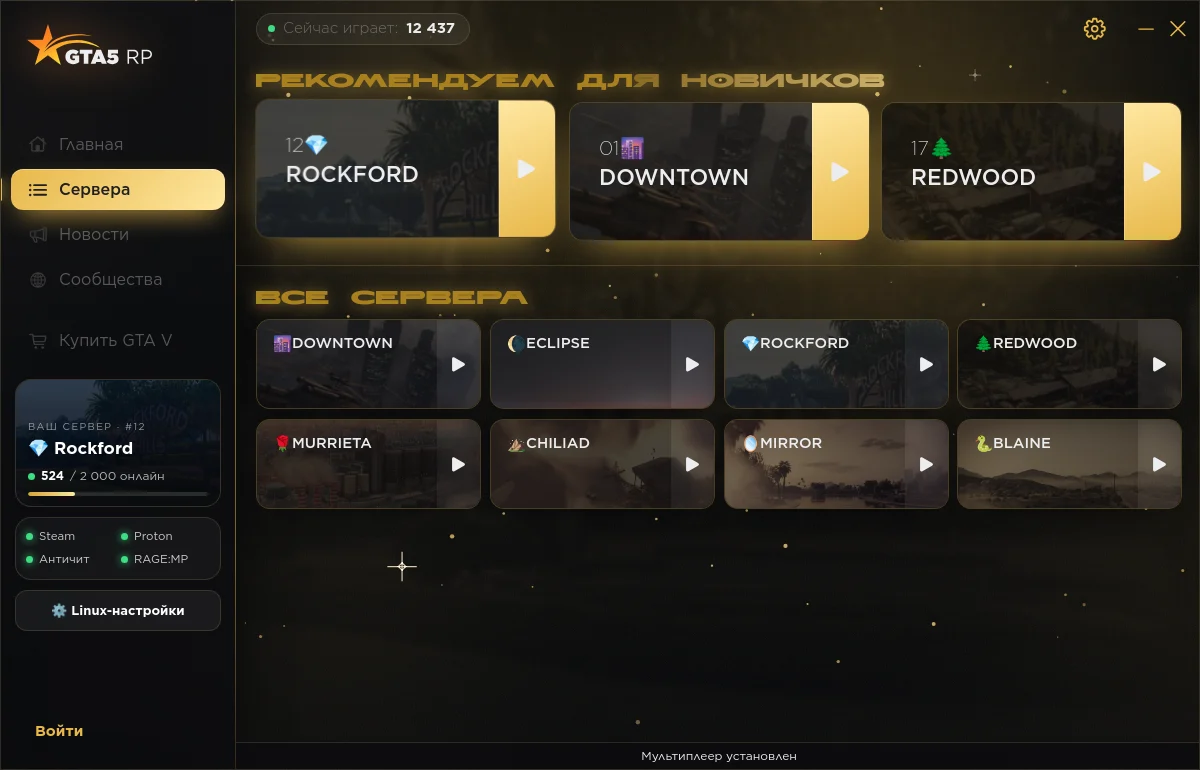
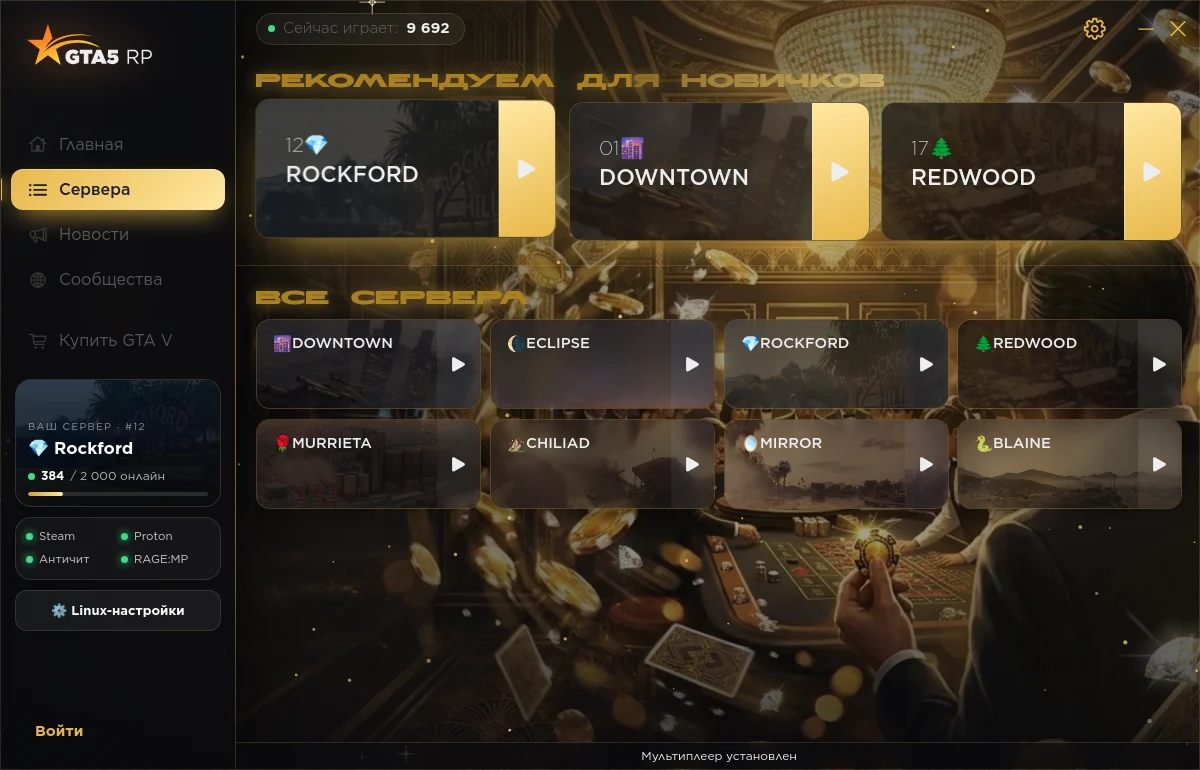
1.2.0: generated art for every theme (Google Flow), site hero/final art, theme thumbnails, mobile hero fix

diff --git a/docs/index.html b/docs/index.html
@@ -10,7 +10,7 @@
 <meta property="og:image" content="https://alinaz18.github.io/gta5rp-launcher-linux/shots/servers.webp">
 <meta name="theme-color" content="#08070b">
 <link rel="icon" href="icon.svg" type="image/svg+xml">
-<link rel="preload" as="image" href="img/la-highway.webp">
+<link rel="preload" as="image" href="img/hero-flow.webp">
 <link rel="preconnect" href="https://fonts.googleapis.com">
 <link rel="preconnect" href="https://fonts.gstatic.com" crossorigin>
 <link href="https://fonts.googleapis.com/css2?family=Inter:wght@400;500;600;700;800&family=Unbounded:wght@600;700;800&family=JetBrains+Mono:wght@500&display=swap" rel="stylesheet">
@@ -57,7 +57,7 @@ a { color: inherit; } img { display: block; max-width: 100%; }
 
 /* ---------------------------------------------------------------- hero */
 .hero { position: relative; min-height: 100vh; min-height: 100svh; display: flex; align-items: center; isolation: isolate; overflow: hidden; padding: 110px 0 70px; }
-.hero-bg { position: absolute; inset: 0; z-index: -2; background: url(img/la-highway.webp) center 42% / cover no-repeat;
+.hero-bg { position: absolute; inset: 0; z-index: -2; background: url(img/hero-flow.webp) center 55% / cover no-repeat;
   transform: scale(1.06); animation: kb 26s ease-in-out infinite alternate; will-change: transform; }
 @keyframes kb { to { transform: scale(1.14) translate3d(-1.2%, -.8%, 0); } }
 .hero-shade { position: absolute; inset: 0; z-index: -1;
@@ -67,6 +67,7 @@ a { color: inherit; } img { display: block; max-width: 100%; }
     radial-gradient(60% 50% at 75% 60%, rgba(255,122,47,.18), transparent 70%); }
 .hero .wrap { display: grid; grid-template-columns: 1.1fr .9fr; gap: 40px; align-items: center; }
 @media (max-width: 980px) { .hero .wrap { grid-template-columns: 1fr; } .hero-art { max-width: 420px; justify-self: center; order: -1; } }
+@media (max-width: 600px) { .hero { padding-top: 88px; min-height: auto; align-items: flex-start; } .scroll-hint { display: none; } .hero-art { max-width: 210px; margin-bottom: -10px; } h1 { margin-top: 18px; } .facts { gap: 18px; } }
 .eyebrow { display: inline-flex; align-items: center; gap: 10px; font-size: 13px; font-weight: 700; color: #e9e5ee;
   padding: 7px 14px 7px 8px; border-radius: 999px; background: rgba(255,255,255,.07); border: 1px solid var(--line2); backdrop-filter: blur(10px); }
 .eyebrow b { font-size: 11px; letter-spacing: .1em; padding: 3px 8px; border-radius: 999px; background: var(--or); color: #170d04; }
@@ -78,7 +79,7 @@ h1 .grad { display: block; }
 .facts div { font-size: 13.5px; color: var(--muted); }
 .facts b { display: block; font-family: Unbounded, Inter, sans-serif; font-size: 22px; color: #fff; font-weight: 700; letter-spacing: -.01em; }
 .hero-art { position: relative; }
-.hero-art img { width: 100%; animation: float 7s ease-in-out infinite; filter: drop-shadow(0 40px 50px rgba(0,0,0,.65)); }
+.hero-art img { width: 100%; height: auto; animation: float 7s ease-in-out infinite; filter: drop-shadow(0 40px 50px rgba(0,0,0,.65)); }
 @keyframes float { 50% { transform: translateY(-12px); } }
 .hero-art::before { content: ""; position: absolute; inset: 14% 8% 6%; border-radius: 50%; z-index: -1;
   background: radial-gradient(circle, rgba(255,122,47,.45), transparent 66%); filter: blur(30px); }
@@ -144,7 +145,7 @@ h2 { font-family: Unbounded, Inter, sans-serif; font-weight: 700; font-size: cla
   transition: border-color .3s, background .3s; }
 .tbtn:hover { background: rgba(255,255,255,.05); }
 .tbtn.on { border-color: var(--c); background: color-mix(in srgb, var(--c) 9%, transparent); }
-.tbtn i { width: 40px; height: 40px; border-radius: 11px; flex: none; background: var(--g); box-shadow: inset 0 0 0 1px rgba(255,255,255,.18); }
+.tbtn i { width: 64px; height: 40px; border-radius: 10px; flex: none; background: var(--g); background-size: cover; background-position: 70% 40%; box-shadow: inset 0 0 0 1px rgba(255,255,255,.18); }
 .tbtn b { display: block; font-size: 15px; } .tbtn small { display: block; color: var(--muted); font-size: 12.5px; line-height: 1.35; }
 .tview .frame { --tilt: 0deg; --sc: 1; box-shadow: 0 50px 120px -60px #000, 0 30px 100px -70px var(--c, var(--or)); }
 
@@ -194,7 +195,7 @@ summary::after { content: ""; width: 12px; height: 12px; flex: none; margin-top:
 details[open] summary::after { transform: rotate(-135deg); }
 details p { margin: -6px 4px 22px; color: var(--muted); }
 .final { position: relative; margin-top: 140px; padding: 110px 0; text-align: center; isolation: isolate; overflow: hidden; }
-.final::before { content: ""; position: absolute; inset: 0; z-index: -1; background: url(img/la-skyline.webp) center 70% / cover no-repeat; opacity: .55; }
+.final::before { content: ""; position: absolute; inset: 0; z-index: -1; background: url(img/final-flow.webp) center 60% / cover no-repeat; opacity: .6; }
 .final::after { content: ""; position: absolute; inset: 0; z-index: -1; background: linear-gradient(180deg, var(--bg), rgba(8,7,11,.55) 40%, rgba(8,7,11,.85)); }
 .final .cta { justify-content: center; margin-top: 30px; }
 footer { padding: 40px 0 60px; border-top: 1px solid var(--line); color: var(--dim); font-size: 13px; }
@@ -223,7 +224,7 @@ footer b { color: #d9d5df; font-weight: 600; }
 </div></nav>
 
 <header class="hero" id="top">
-  <div class="hero-bg" role="img" aria-label="Ночная трасса в даунтаун Лос-Анджелеса"></div>
+  <div class="hero-bg" role="img" aria-label="Ночной Лос-Сантос с холма"></div>
   <div class="hero-shade"></div>
   <div class="wrap">
     <div>
@@ -395,10 +396,9 @@ footer b { color: #d9d5df; font-weight: 600; }
   <div>GTA5RP Launcher · MIT · <a href="https://github.com/alinaz18/gta5rp-launcher-linux">исходный код</a> · <a href="https://github.com/alinaz18/gta5rp-launcher-linux/issues">сообщить о проблеме</a><br>
     Не связан с GTA5RP, RAGE:MP, Rockstar Games и Valve. Логотип, интерфейс и арт серверов на скриншотах — © GTA5RP.</div>
   <div><b>Фото и иллюстрации</b> (Wikimedia Commons):<br>
-    «Los Angeles and skyline at night» — Ron Reiring, <a href="https://creativecommons.org/licenses/by-sa/2.0/">CC BY-SA 2.0</a>, затемнено и обрезано ·
     «Hot Nights Bright Lights…» — Sevan Seviant, <a href="https://creativecommons.org/licenses/by/3.0/">CC BY 3.0</a>, обрезано ·
-    «Los Angeles Skyline at Night» — BrianLiao, <a href="https://creativecommons.org/licenses/by/2.0/">CC BY 2.0</a> ·
-    Tux — Larry Ewing, Simon Budig, Garrett LeSage.</div>
+    Tux — Larry Ewing, Simon Budig, Garrett LeSage.<br>
+    Фон первого экрана и арт тем лаунчера сгенерированы в Google Flow (Nano Banana).</div>
 </div></footer>
 
 <script>
@@ -465,7 +465,7 @@ footer b { color: #d9d5df; font-weight: 600; }
     ['casino', 'Diamond Casino', 'Золото и золотая пыль.', '#e8b84a', 'linear-gradient(135deg,#fff0bf,#e8b84a 50%,#5b4310)'],
   ];
   const tlist = $('#tlist');
-  tlist.innerHTML = THEMES.map(([k, n, d, c, g], i) => `<button class="tbtn" data-i="${i}" style="--c:${c};--g:${g}"><i></i><span><b>${n}</b><small>${d}</small></span></button>`).join('');
+  tlist.innerHTML = THEMES.map(([k, n, d, c, g], i) => `<button class="tbtn" data-i="${i}" style="--c:${c};--g:${k === 'original' ? g : `url(img/themes/${k}.webp)`}"><i></i><span><b>${n}</b><small>${d}</small></span></button>`).join('');
   const tshow = gallery($('#tscreen'), $('#tcap'), THEMES.map(([k, n, d]) => [k, n, d]), 'themes-');
   const pick = (i) => { tshow(i); $$('.tbtn', tlist).forEach((b, j) => b.classList.toggle('on', i === j)); $('#tframe').style.setProperty('--c', THEMES[i][3]); };
   tlist.addEventListener('click', (e) => { const b = e.target.closest('.tbtn'); if (b) pick(+b.dataset.i); });

diff --git a/webui/enhance.css b/webui/enhance.css
@@ -520,3 +520,12 @@ html[data-rp-theme="casino"] #rp-fxdom::before {
 .rp-theme[data-theme="vibe"] { background: repeating-linear-gradient(90deg, rgba(34,229,122,.25) 0 2px, transparent 2px 12px), linear-gradient(135deg, #062b14, #010502); }
 .rp-theme[data-theme="vice"] { background: radial-gradient(circle at 70% 75%, #ffb347 0 14px, #ff2f8f 15px 22px, transparent 23px), linear-gradient(180deg, #2a0b4a, #ff3fa4 140%); }
 .rp-theme[data-theme="casino"] { background: linear-gradient(115deg, transparent 40%, rgba(255,231,161,.4) 50%, transparent 60%), radial-gradient(circle at 75% 25%, #ffe7a1, transparent 55%), linear-gradient(135deg, #5b4310, #0e0a03); }
+
+/* ---------- сгенерированный арт тем (webui/themes/*.webp) */
+html[data-rp-theme] #rp-bg .rp-img.art { filter: brightness(.86) saturate(1.05) !important; background-position: 72% 40%; }
+html[data-rp-theme] #rp-bg .rp-img.art.on { opacity: min(1, calc(var(--rp-strength) + .32)); }
+html[data-rp-theme] #rp-bg .rp-shade {
+  background: linear-gradient(90deg, rgba(5, 5, 8, .88) 0, rgba(5, 5, 8, .55) 26%, rgba(5, 5, 8, .12) 62%, rgba(5, 5, 8, .25) 100%),
+              linear-gradient(180deg, rgba(5, 5, 8, .35) 0, transparent 30%, transparent 70%, rgba(5, 5, 8, .75) 100%);
+}
+html[data-rp-theme] #rp-bg .rp-aurora { opacity: .22; }

diff --git a/webui/enhance.js b/webui/enhance.js
@@ -48,8 +48,13 @@
   const [imgA, imgB] = bg.querySelectorAll('.rp-img');
   let front = imgA, current = '', want = '';
 
+  // у тем (кроме оригинальной) свой арт на фоне — webui/themes/<тема>.webp
+  const themeArt = () => (prefs.theme && prefs.theme !== 'original' && window.__rpAssets)
+    ? `${window.__rpAssets}/themes/${prefs.theme}.webp` : '';
+
   function showBg(url) {
-    url = url || DEFAULT_BG;
+    const art = themeArt();
+    url = art || url || DEFAULT_BG;
     want = url;
     if (url === current) return;
     const img = new Image();
@@ -58,6 +63,7 @@
       current = url;
       const back = front === imgA ? imgB : imgA;
       back.style.backgroundImage = `url("${url}")`;
+      back.classList.toggle('art', !!art);
       back.classList.add('on');
       front.classList.remove('on');
       front = back;

diff --git a/gta5rp_webui.py b/gta5rp_webui.py
@@ -425,6 +425,7 @@ SHIM = r"""
   });
   window.__rpTheme = (url) => call('serverTheme', url);
   window.__rp = (name, ...args) => call(name, ...args);
+  window.__rpAssets = "@ASSETS@";
   // окно без рамки: тянем за элементы .draggable (в Electron это -webkit-app-region: drag)
   document.addEventListener('mousedown', (e) => {
     if (e.button !== 0 || !(e.target instanceof Element)) return;
@@ -478,7 +479,7 @@ class WebWindow(QWebEngineView):
         self.channel = QWebChannel(page)
         self.channel.registerObject("bridge", Bridge(self))
         page.setWebChannel(self.channel)
-        shim = SHIM.replace("@CORE@", self.backend.url("core")).replace("@STATUS@", self.backend.url("status"))
+        shim = SHIM.replace("@CORE@", self.backend.url("core")).replace("@STATUS@", self.backend.url("status")).replace("@ASSETS@", QUrl.fromLocalFile(str(EXTRA_DIR)).toString())
         self._add_script(page, "qwebchannel", _qrc_text(":/qtwebchannel/qwebchannel.js"))
         self._add_script(page, "gta5rp-shim", shim)
         for extra in ("enhance.css", "enhance.js"):

diff --git a/gta5rp_core.py b/gta5rp_core.py
@@ -27,7 +27,7 @@ import urllib.request
 from dataclasses import dataclass, field
 from pathlib import Path
 
-VERSION = "1.1.0"
+VERSION = "1.2.0"
 IS_WIN = os.name == "nt"
 OFFICIAL_VERSION = "1.0.0.11"  # версия официального лаунчера, с которой сверялся протокол
 
